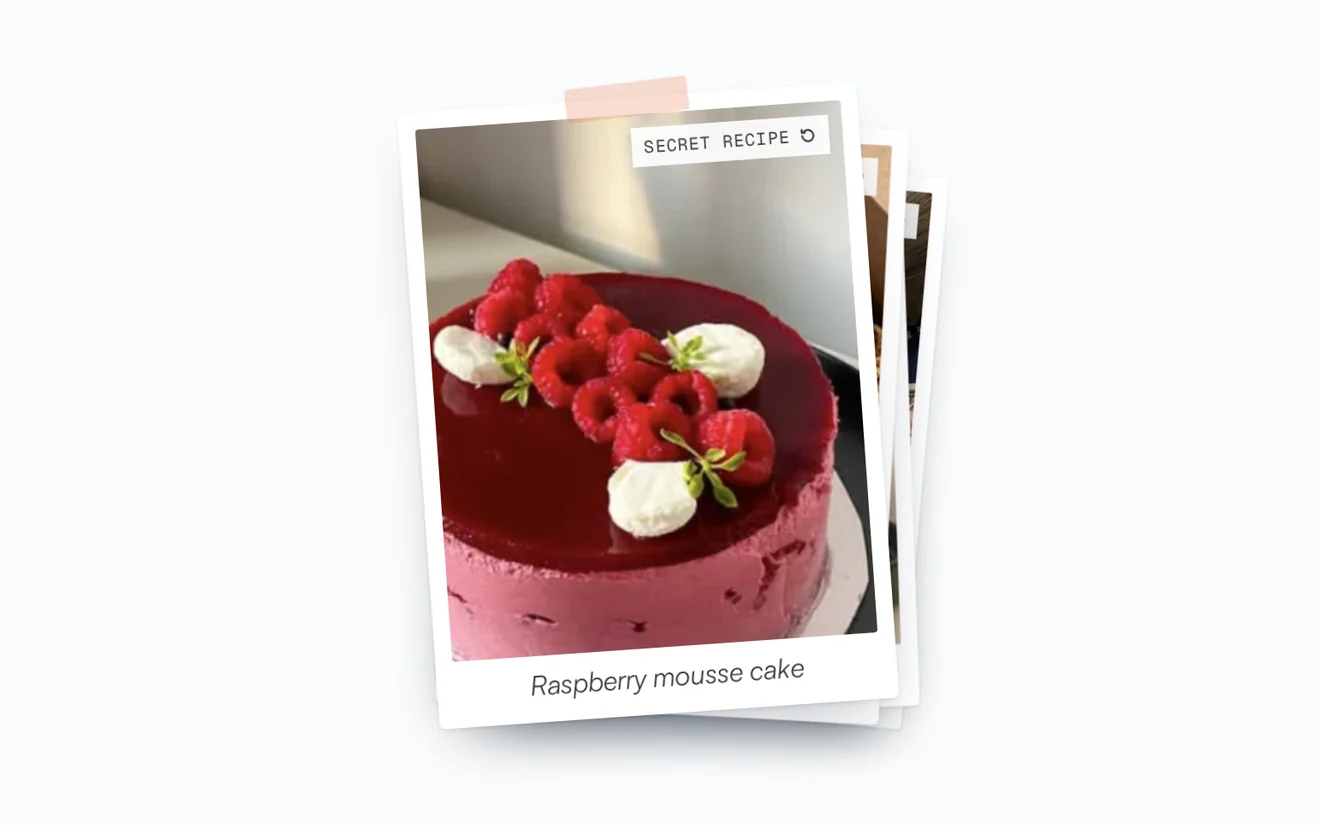
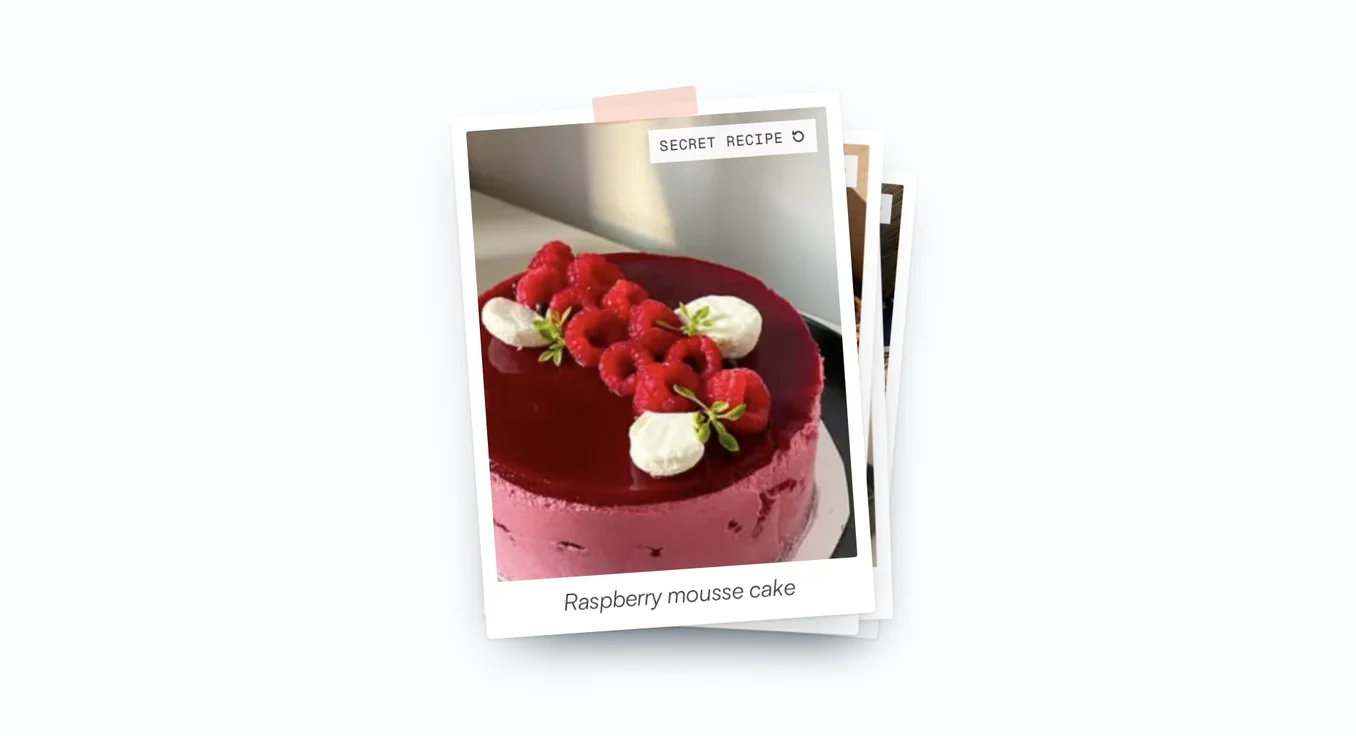
Home: the introduction sits higher, a larger photo, play two to a row
- The first screen leaves 180px for the cards on wide screens (was 84px), so
  the sentence and the facts move up and about half of the first thumbnails
  show. Phones keep 84px.
- Her photo in the greeting is twice the size (2.72em); it stands on the line
  and rises above it without pushing the next line down.
- Play pieces are the same large cards as the work, two to a row, with their
  one-line descriptions. Phones keep the small two-up cards.
- Play thumbnails remade in the work thumbnails' shape (1356×736).

Claude-Session: https://claude.ai/code/session_01REV1HQ51KibnFaVQwnW57x

Changed region(s): [[0.3106, 0.0938, 0.7144, 0.9375]]

diff --git a/components/home/Home.tsx b/components/home/Home.tsx
@@ -18,7 +18,7 @@ import { NameChip, PhoneBar, SiteNav } from "./Nav";
  * The first screen is the introduction (the sentence, with her photo in it, and four facts), as
  * tall as the window minus a strip at the bottom where the tops of the first two cards show:
  * the work is one scroll away, and it says so. Below: four projects as large cards (each opens
- * its case study), four play pieces as small ones, and a way to say hi.
+ * its case study), four play pieces the same way (two to a row), and a way to say hi.
  */
 /** The card that opened the page now on screen: focus goes back to it when that page closes. */
 let opener: HTMLElement | null = null;
@@ -84,7 +84,7 @@ export function Home({ hidden }: { hidden: boolean }) {
         <ul className="nh-grid nh-grid--play">
           {fun.map((p) => (
             <li key={p.id}>
-              <Card page={p} small />
+              <Card page={p} play />
             </li>
           ))}
         </ul>
@@ -142,8 +142,9 @@ function labelOf(p: Page) {
 /**
  * One project. The whole card is the link: a work card opens its case study, a play card its
  * page. ZipFlow has no case study yet, so its card says so and doesn't open anything.
+ * Play cards are the same card; on phones they sit two to a row and drop the one-line tagline.
  */
-function Card({ page: p, small = false }: { page: Page; small?: boolean }) {
+function Card({ page: p, play = false }: { page: Page; play?: boolean }) {
   const { openCase, openPlay } = useShell();
   const { label, year } = labelOf(p);
   const soon = p.status === "soon";
@@ -170,21 +171,21 @@ function Card({ page: p, small = false }: { page: Page; small?: boolean }) {
         )}
       </span>
       <span className="nh-card-title">{p.title}</span>
-      {!small && <span className="nh-card-tag">{p.tagline}</span>}
+      <span className="nh-card-tag">{p.tagline}</span>
     </>
   );
 
   if (!href || soon)
     return (
-      <div className={`nh-card${small ? " nh-card--sm" : ""}`} data-soon="">
+      <div className={`nh-card${play ? " nh-card--play" : ""}`} data-soon="">
         {body}
       </div>
     );
   return (
     <a
-      className={`nh-card${small ? " nh-card--sm" : ""}`}
+      className={`nh-card${play ? " nh-card--play" : ""}`}
       href={href}
-      aria-label={`${p.title}. ${small ? "" : `${p.tagline} `}${toCase ? "Read the case study" : "Open"}`}
+      aria-label={`${p.title}. ${p.tagline} ${toCase ? "Read the case study" : "Open"}`}
       onPointerEnter={warm}
       onFocus={warm}
       onClick={(e) => {

diff --git a/app/home.css b/app/home.css
@@ -28,6 +28,12 @@ html[data-over] {
   --peek: 84px;
   --gutter: var(--space-xl);
 }
+/* wide screens: the introduction sits higher and about half of the first thumbnails show */
+@media (min-width: 800px) {
+  .nh {
+    --peek: 180px;
+  }
+}
 .nh[data-hidden],
 html[data-booting] .nh {
   visibility: hidden;
@@ -181,12 +187,14 @@ html[data-booting] .nh {
 .nh-intro .hello-block {
   min-width: 0;
 }
-/* her photo, in the greeting the way the emoji are in the sentence */
+/* her photo, in the greeting: it stands on the line and rises above it (the negative top margin
+   keeps it from pushing the next line down) */
 .hello-me {
+  --me: 2.72em;
   display: inline-block;
-  width: 1.36em;
-  height: 1.36em;
-  margin: 0 0.04em 0 0.32em;
+  width: var(--me);
+  height: var(--me);
+  margin: calc(1.3em - var(--me)) 0.06em 0 0.32em;
   object-fit: cover;
   vertical-align: -0.3em;
   user-select: none;
@@ -246,17 +254,24 @@ html[data-booting] .nh {
   padding: 0;
   list-style: none;
 }
-.nh-grid--play {
-  grid-template-columns: repeat(2, minmax(0, 1fr));
-  gap: var(--space-xl) var(--space-md);
-}
 @media (min-width: 800px) {
   .nh-grid {
     grid-template-columns: repeat(2, minmax(0, 1fr));
   }
+}
+/* phones: the play pieces stay two to a row, as small cards (name only) */
+@media (max-width: 799px) {
   .nh-grid--play {
-    grid-template-columns: repeat(4, minmax(0, 1fr));
-    gap: var(--space-xl);
+    grid-template-columns: repeat(2, minmax(0, 1fr));
+    gap: var(--space-xl) var(--space-md);
+  }
+  .nh-card--play .nh-card-title {
+    font-size: 16px;
+    letter-spacing: -0.02em;
+  }
+  .nh-card--play .nh-card-tag,
+  .nh-card--play .nh-card-end {
+    display: none;
   }
 }
 .nh-sech {
@@ -285,9 +300,6 @@ html[data-booting] .nh {
   border: 1px solid var(--border);
   background: #ffffff;
   transition: border-color 0.2s;
-}
-.nh-card--sm .nh-card-media {
-  aspect-ratio: 16 / 10;
 }
 .nh-card-media img {
   display: block;
@@ -339,10 +351,6 @@ html[data-booting] .nh {
   font-weight: 500;
   letter-spacing: -0.035em;
   line-height: 1.3;
-}
-.nh-card--sm .nh-card-title {
-  font-size: 16px;
-  letter-spacing: -0.02em;
 }
 .nh-card-title::before {
   content: "";
@@ -398,9 +406,6 @@ a.nh-card:focus-visible .nh-card-media {
   .nh-card-go {
     color: var(--text-muted);
     opacity: 1;
-  }
-  .nh-card--sm .nh-card-end {
-    display: none;
   }
 }
 

diff --git a/content/site.ts b/content/site.ts
@@ -253,7 +253,7 @@ export const pages: Page[] = [
     id: "cocktail",
     meta: "Motion • 3D • 2026",
     group: "fun",
-    thumb: "/fun/word-cocktail.webp",
+    thumb: "/fun/cocktail-card.webp",
     title: "Untranslatable word bar",
     ticker: "MIX",
     kind: "Motion · 3D · Toy",

diff --git a/README.md b/README.md
@@ -13,7 +13,7 @@ npm run dev        # http://localhost:3000
 
 ## The layout: Home, and the pages that open over it
 
-- **Home** (`components/home/Home.tsx`, styles in `app/home.css`). The first screen is the introduction: the sentence, with her photo in the greeting the way the emoji sit in the sentence (`profile.photo`), and four facts on the right (Now, Before, Where with New York time, and what she's open to). It is as tall as the window minus 84px, so the tops of the first two cards always show at the bottom, on any screen. On wide screens the sentence and the facts sit just above the cards; on phones they sit in the middle. Under it: the four projects as large cards (two columns), the four play pieces as small ones, and Say hi.
+- **Home** (`components/home/Home.tsx`, styles in `app/home.css`). The first screen is the introduction: the sentence, with her photo in the greeting the way the emoji sit in the sentence (`profile.photo`), and four facts on the right (Now, Before, Where with New York time, and what she's open to). It is as tall as the window minus a strip (`--peek` in `app/home.css`: 180px on wide screens, 84px on phones), so the first two cards always show at the bottom, on any screen. The photo's size is `--me` on `.hello-me`. On wide screens the sentence and the facts sit just above the cards; on phones they sit in the middle. Under it: the four projects as large cards (two columns), the four play pieces the same way (two to a row; small cards, two to a row, on phones), and Say hi.
 - **A work card opens its case study** (`/#case/pebbo`). ZipFlow has none yet, so its card is dimmed, says “Coming soon” and doesn't open anything. On hover (or keyboard focus) a card's border darkens and its year becomes “Read case study →”; on touch screens that line is always written.
 - **A case study opens on a split first screen** (`components/case/SplitHero.tsx`): label, title, one line and the facts on the left; the prototype itself on the right, working (the Tipping walkthrough, the Pebbo app, the Melon recording). It is what used to be a page of its own before the case study. The prototype runs only while that screen is in view. The table of contents comes in once it has been scrolled past. Narrow screens: one column, the prototype right after the title. Because the prototype is at the top, Pebbo's “Try Pebbo” section is gone and Melon's “Prototype” section lists what each part of the recording shows instead of playing it again.
 - **A play card opens a play page** (`/#play/wish`, `components/home/PlayPage.tsx`): the piece's name and one line, then the thing itself.
@@ -22,7 +22,7 @@ npm run dev        # http://localhost:3000
 - **Home stays where it was** under a case study or a play page (hidden, not scrolled), so “Back” lands exactly where the visitor left. The addresses work with the browser's back and forward.
 - **Old links still work**: `/#pebbo` opens the Pebbo case study, `/#wish` its play page, `/#about` the About page, `/#zipflow` the cards, `/#hi` the end of Home (`routeFromHash` in `components/shell-context.tsx`).
 - **What loads when**: Home carries none of the prototypes. The case studies and the play pages are two separate chunks; a card starts fetching its page when the pointer or focus reaches it, and a link straight to one preloads it from `<head>` (`scripts/defer-css.mjs`).
-- **Card thumbnails** are `thumb` in `content/site.ts`. `public/work/melon.webp`, `public/fun/wish-card.webp`, `public/fun/bakery-card.webp` and `public/fun/lab-card.webp` were made for the cards; `public/about/me.webp` (the photo in the greeting) is a 118px crop and should be replaced with a crop from the original photo.
+- **Card thumbnails** are `thumb` in `content/site.ts`. `public/work/melon.webp` and `public/fun/{cocktail,wish,bakery,lab}-card.webp` were made for the cards (1356×736, the shape of the work thumbnails); `public/about/me.webp` (the photo in the greeting) is a 118px crop and should be replaced with a crop from the original photo.
 - **Not used any more, still in the repo** until the new layout is settled: the deck and its chrome (`components/App.tsx`, `Deck.tsx`, `IndexRail.tsx`'s rail, `Sidebar.tsx`'s drawer, `Inspector.tsx`, `StageDoor.tsx`, the Zipflow / About / Hi stages in `Stages.tsx`) and their styles in `app/globals.css`. Nothing imports them, so they are not in what visitors download. The sections below that describe the deck (“Home: one way in”, “About me, next to Résumé and LinkedIn”, “Work pages: the brief”, “About: a short hello in the deck”) describe that earlier layout.
 
 ## Edit the words
